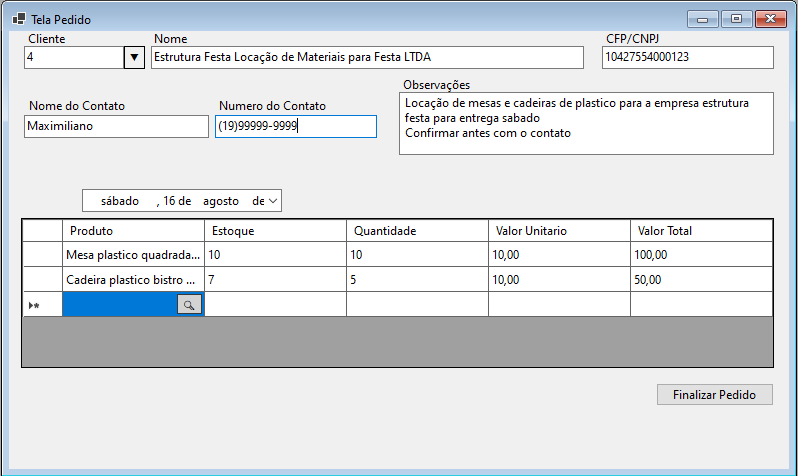
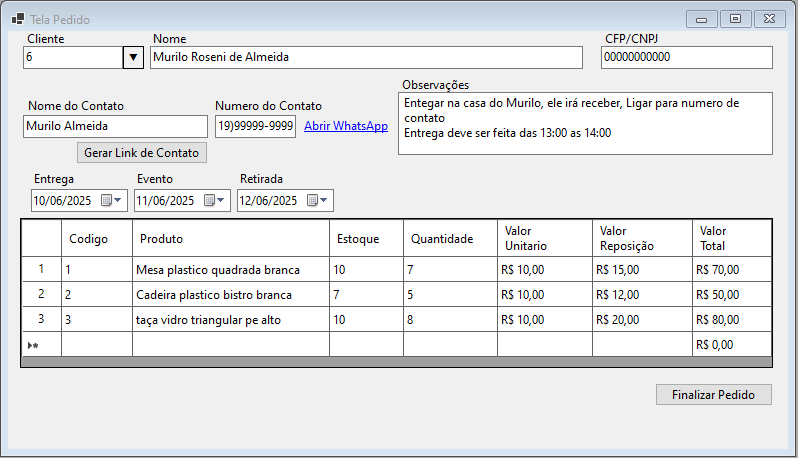
.

diff --git a/EstruturaFesta/Presentation/Forms/TelaPedidoForm.Designer.cs b/EstruturaFesta/Presentation/Forms/TelaPedidoForm.Designer.cs
@@ -47,12 +47,18 @@
             Estoque = new DataGridViewTextBoxColumn();
             Quantidade = new DataGridViewTextBoxColumn();
             ValorUnitario = new DataGridViewTextBoxColumn();
+            ValorReposicao = new DataGridViewTextBoxColumn();
             ValorTotal = new DataGridViewTextBoxColumn();
             dateTimePickerDataPedido = new DateTimePicker();
             buttonFinalizarPedido = new Button();
             labelCliente = new Label();
             labelNome = new Label();
             labelDocumentos = new Label();
+            dateTimePickerEntrega = new DateTimePicker();
+            dateTimePickerRetirada = new DateTimePicker();
+            labelEntrega = new Label();
+            labelEvento = new Label();
+            labelRetirada = new Label();
             InformacoesCliente.SuspendLayout();
             ((System.ComponentModel.ISupportInitialize)dataGridViewProdutosLocacao).BeginInit();
             SuspendLayout();
@@ -185,7 +191,7 @@
             // dataGridViewProdutosLocacao
             // 
             dataGridViewProdutosLocacao.ColumnHeadersHeightSizeMode = DataGridViewColumnHeadersHeightSizeMode.AutoSize;
-            dataGridViewProdutosLocacao.Columns.AddRange(new DataGridViewColumn[] { ProdutoID, Produto, Estoque, Quantidade, ValorUnitario, ValorTotal });
+            dataGridViewProdutosLocacao.Columns.AddRange(new DataGridViewColumn[] { ProdutoID, Produto, Estoque, Quantidade, ValorUnitario, ValorReposicao, ValorTotal });
             dataGridViewProdutosLocacao.EditMode = DataGridViewEditMode.EditOnEnter;
             dataGridViewProdutosLocacao.Location = new Point(12, 187);
             dataGridViewProdutosLocacao.MultiSelect = false;
@@ -198,13 +204,16 @@
             dataGridViewProdutosLocacao.CellFormatting += dataGridViewProdutosLocacao_CellFormatting;
             dataGridViewProdutosLocacao.CurrentCellChanged += dataGridViewProdutosLocacao_CurrentCellChanged;
             dataGridViewProdutosLocacao.EditingControlShowing += dataGridViewProdutosLocacao_EditingControlShowing;
+            dataGridViewProdutosLocacao.RowHeaderMouseClick += dataGridViewProdutosLocacao_RowHeaderMouseClick;
+            dataGridViewProdutosLocacao.RowPostPaint += dataGridViewProdutosLocacao_RowPostPaint;
             dataGridViewProdutosLocacao.RowsAdded += dataGridViewProdutosLocacao_RowsAdded;
             // 
             // ProdutoID
             // 
-            ProdutoID.AutoSizeMode = DataGridViewAutoSizeColumnMode.Fill;
+            ProdutoID.AutoSizeMode = DataGridViewAutoSizeColumnMode.ColumnHeader;
             ProdutoID.HeaderText = "Codigo";
             ProdutoID.Name = "ProdutoID";
+            ProdutoID.Width = 71;
             // 
             // Produto
             // 
@@ -214,36 +223,46 @@
             // 
             // Estoque
             // 
-            Estoque.AutoSizeMode = DataGridViewAutoSizeColumnMode.Fill;
+            Estoque.AutoSizeMode = DataGridViewAutoSizeColumnMode.ColumnHeader;
             Estoque.HeaderText = "Estoque";
             Estoque.Name = "Estoque";
             Estoque.ReadOnly = true;
+            Estoque.Width = 74;
             // 
             // Quantidade
             // 
-            Quantidade.AutoSizeMode = DataGridViewAutoSizeColumnMode.Fill;
+            Quantidade.AutoSizeMode = DataGridViewAutoSizeColumnMode.ColumnHeader;
             Quantidade.HeaderText = "Quantidade";
             Quantidade.Name = "Quantidade";
+            Quantidade.Width = 94;
             // 
             // ValorUnitario
             // 
-            ValorUnitario.AutoSizeMode = DataGridViewAutoSizeColumnMode.Fill;
+            ValorUnitario.AutoSizeMode = DataGridViewAutoSizeColumnMode.ColumnHeader;
             ValorUnitario.HeaderText = "Valor Unitario";
             ValorUnitario.Name = "ValorUnitario";
             ValorUnitario.ReadOnly = true;
+            ValorUnitario.Width = 95;
+            // 
+            // ValorReposicao
+            // 
+            ValorReposicao.HeaderText = "Valor Reposição";
+            ValorReposicao.Name = "ValorReposicao";
+            ValorReposicao.ReadOnly = true;
             // 
             // ValorTotal
             // 
-            ValorTotal.AutoSizeMode = DataGridViewAutoSizeColumnMode.Fill;
+            ValorTotal.AutoSizeMode = DataGridViewAutoSizeColumnMode.ColumnHeader;
             ValorTotal.HeaderText = "Valor Total";
             ValorTotal.Name = "ValorTotal";
             ValorTotal.ReadOnly = true;
+            ValorTotal.Width = 79;
             // 
             // dateTimePickerDataPedido
             // 
             dateTimePickerDataPedido.CustomFormat = "";
             dateTimePickerDataPedido.Format = DateTimePickerFormat.Short;
-            dateTimePickerDataPedido.Location = new Point(103, 158);
+            dateTimePickerDataPedido.Location = new Point(126, 158);
             dateTimePickerDataPedido.Name = "dateTimePickerDataPedido";
             dateTimePickerDataPedido.Size = new Size(97, 23);
             dateTimePickerDataPedido.TabIndex = 2;
@@ -286,15 +305,67 @@
             labelDocumentos.TabIndex = 6;
             labelDocumentos.Text = "CFP/CNPJ";
             // 
+            // dateTimePickerEntrega
+            // 
+            dateTimePickerEntrega.CustomFormat = "";
+            dateTimePickerEntrega.Format = DateTimePickerFormat.Short;
+            dateTimePickerEntrega.Location = new Point(23, 158);
+            dateTimePickerEntrega.Name = "dateTimePickerEntrega";
+            dateTimePickerEntrega.Size = new Size(97, 23);
+            dateTimePickerEntrega.TabIndex = 2;
+            dateTimePickerEntrega.Value = new DateTime(2025, 8, 20, 0, 0, 0, 0);
+            // 
+            // dateTimePickerRetirada
+            // 
+            dateTimePickerRetirada.CustomFormat = "";
+            dateTimePickerRetirada.Format = DateTimePickerFormat.Short;
+            dateTimePickerRetirada.Location = new Point(229, 158);
+            dateTimePickerRetirada.Name = "dateTimePickerRetirada";
+            dateTimePickerRetirada.Size = new Size(97, 23);
+            dateTimePickerRetirada.TabIndex = 2;
+            dateTimePickerRetirada.Value = new DateTime(2025, 8, 20, 0, 0, 0, 0);
+            // 
+            // labelEntrega
+            // 
+            labelEntrega.AutoSize = true;
+            labelEntrega.Location = new Point(23, 140);
+            labelEntrega.Name = "labelEntrega";
+            labelEntrega.Size = new Size(47, 15);
+            labelEntrega.TabIndex = 7;
+            labelEntrega.Text = "Entrega";
+            // 
+            // labelEvento
+            // 
+            labelEvento.AutoSize = true;
+            labelEvento.Location = new Point(126, 140);
+            labelEvento.Name = "labelEvento";
+            labelEvento.Size = new Size(43, 15);
+            labelEvento.TabIndex = 7;
+            labelEvento.Text = "Evento";
+            // 
+            // labelRetirada
+            // 
+            labelRetirada.AutoSize = true;
+            labelRetirada.Location = new Point(229, 140);
+            labelRetirada.Name = "labelRetirada";
+            labelRetirada.Size = new Size(50, 15);
+            labelRetirada.TabIndex = 7;
+            labelRetirada.Text = "Retirada";
+            // 
             // TelaPedidoForm
             // 
             AutoScaleDimensions = new SizeF(7F, 15F);
             AutoScaleMode = AutoScaleMode.Font;
             ClientSize = new Size(780, 749);
+            Controls.Add(labelRetirada);
+            Controls.Add(labelEvento);
+            Controls.Add(labelEntrega);
             Controls.Add(labelDocumentos);
             Controls.Add(labelNome);
             Controls.Add(labelCliente);
             Controls.Add(buttonFinalizarPedido);
+            Controls.Add(dateTimePickerRetirada);
+            Controls.Add(dateTimePickerEntrega);
             Controls.Add(dateTimePickerDataPedido);
             Controls.Add(dataGridViewProdutosLocacao);
             Controls.Add(InformacoesCliente);
@@ -334,6 +405,12 @@
         private DataGridViewTextBoxColumn Estoque;
         private DataGridViewTextBoxColumn Quantidade;
         private DataGridViewTextBoxColumn ValorUnitario;
+        private DataGridViewTextBoxColumn ValorReposicao;
         private DataGridViewTextBoxColumn ValorTotal;
+        private DateTimePicker dateTimePickerEntrega;
+        private DateTimePicker dateTimePickerRetirada;
+        private Label labelEntrega;
+        private Label labelEvento;
+        private Label labelRetirada;
     }
 }

diff --git a/EstruturaFesta/Presentation/Forms/TelaPedidoForm.cs b/EstruturaFesta/Presentation/Forms/TelaPedidoForm.cs
@@ -1,11 +1,7 @@
-using EstruturaFesta.Infrastructure.Data;
+using EstruturaFesta.AppServices.DTOs;
 using EstruturaFesta.Domain.Entities;
-using System;
+using EstruturaFesta.Infrastructure.Data;
 using System.Data;
-using System.Drawing;
-using System.Linq;
-using System.Windows.Forms;
-using EstruturaFesta.AppServices.DTOs;
 using System.Diagnostics;
 
 namespace EstruturaFesta
@@ -240,7 +236,8 @@ namespace EstruturaFesta
                         Modelo = p.Modelo,
                         Especificacao = p.Especificacao,
                         QuantidadeEstoque = p.Quantidade,
-                        ValorUnitario = p.PrecoLocacao
+                        ValorUnitario = p.PrecoLocacao,
+                        ValorReposicao = p.PrecoReposicao
                     })
                     .FirstOrDefault();
 
@@ -264,6 +261,7 @@ namespace EstruturaFesta
                 row.Cells["Produto"].Value = descricaoCompleta;
                 row.Cells["Estoque"].Value = estoqueDisponivel;
                 row.Cells["ValorUnitario"].Value = produtoDTO.ValorUnitario;
+                row.Cells["ValorReposicao"].Value = produtoDTO.ValorReposicao;
 
                 //Verificação de duplicação de Produtos pelo ID
                 if (VerificarProdutoDuplicado(produtoDTO.ProdutoId, rowIndex))
@@ -308,7 +306,8 @@ namespace EstruturaFesta
             }
 
             if (dataGridViewProdutosLocacao.Columns[e.ColumnIndex].Name == "ValorUnitario" ||
-                dataGridViewProdutosLocacao.Columns[e.ColumnIndex].Name == "ValorTotal")
+                dataGridViewProdutosLocacao.Columns[e.ColumnIndex].Name == "ValorTotal" ||
+                dataGridViewProdutosLocacao.Columns[e.ColumnIndex].Name == "ValorReposicao")
             {
                 if (e.Value != null && decimal.TryParse(e.Value.ToString(), out decimal valorDecimal))
                 {
@@ -575,16 +574,6 @@ namespace EstruturaFesta
             }));
         }
 
-        private void ConfigurarColunaProdutoReadOnly()
-        {
-            // Não torna a coluna inteira ReadOnly, será controlado por célula
-            if (dataGridViewProdutosLocacao.Columns.Contains("Produto"))
-            {
-                // Opcional: Mantém cor padrão, será alterada por célula quando necessário
-                dataGridViewProdutosLocacao.Columns["Produto"].DefaultCellStyle.BackColor = Color.White;
-            }
-        }
-
         private void dataGridViewProdutosLocacao_CellBeginEdit(object sender, DataGridViewCellCancelEventArgs e)
         {
             // Se é a coluna Produto e já tem um produto selecionado, cancela a edição
@@ -598,6 +587,53 @@ namespace EstruturaFesta
                     int.TryParse(produtoId.ToString(), out int id) && id > 0)
                 {
                     e.Cancel = true; // Cancela a edição
+                }
+            }
+        }
+        // Metodo para Criar um Contador de linhas
+        private void dataGridViewProdutosLocacao_RowPostPaint(object sender, DataGridViewRowPostPaintEventArgs e)
+        {
+            if (dataGridViewProdutosLocacao.Rows[e.RowIndex].IsNewRow)
+                return;
+
+            string numeroLinha = (e.RowIndex + 1).ToString();
+            using (SolidBrush brush = new SolidBrush(Color.Black))
+            {
+                StringFormat format = new StringFormat()
+                {
+                    Alignment = StringAlignment.Center,
+                    LineAlignment = StringAlignment.Center
+                };
+
+                e.Graphics.DrawString(
+                    numeroLinha,
+                    dataGridViewProdutosLocacao.Font,
+                    brush,
+                    e.RowBounds.Left + (dataGridViewProdutosLocacao.RowHeadersWidth / 2),
+                    e.RowBounds.Top + (e.RowBounds.Height / 2),
+                    format
+                );
+            }
+        }
+
+        //Remoção de linhas
+        private void dataGridViewProdutosLocacao_RowHeaderMouseClick(object sender, DataGridViewCellMouseEventArgs e)
+        {
+            if (e.Button == MouseButtons.Right) // só com botão direito
+            {
+                // Confirmação antes de excluir
+                var confirmar = MessageBox.Show(
+                    "Deseja excluir esta linha?",
+                    "Confirmação",
+                    MessageBoxButtons.YesNo,
+                    MessageBoxIcon.Question);
+
+                if (confirmar == DialogResult.Yes)
+                {
+                    if (!dataGridViewProdutosLocacao.Rows[e.RowIndex].IsNewRow)
+                    {
+                        dataGridViewProdutosLocacao.Rows.RemoveAt(e.RowIndex);
+                    }
                 }
             }
         }

diff --git a/EstruturaFesta/AppServices/DTOs/ProdutoDTO.cs b/EstruturaFesta/AppServices/DTOs/ProdutoDTO.cs
@@ -15,5 +15,6 @@ namespace EstruturaFesta.AppServices.DTOs
         public string Especificacao { get; set; }
         public int QuantidadeEstoque { get; set; }
         public decimal ValorUnitario { get; set; }
+        public decimal ValorReposicao { get; set; }
     }
 }

diff --git a/README.md b/README.md
@@ -6,10 +6,10 @@ Sistema de locação de materiais para festas, desenvolvido em **C# WinForms** c
 ## Funcionalidades
 
 - Cadastro de clientes (Pessoa Física e Jurídica)
-- Controle de estoque por data
+- Controle dinamico de estoque por data
 - Criação de contratos e reservas
-- Relatórios e consultas
-- [Adicione mais funcionalidades conforme necessário]
+- Relatórios e consultas com filtro por data
+- Gerenciamento financeiro com retorno de: clientes atendidos, produtos mais alugados, balanço mensal (Em desenvolvimento futuro)
 
 ---
 
